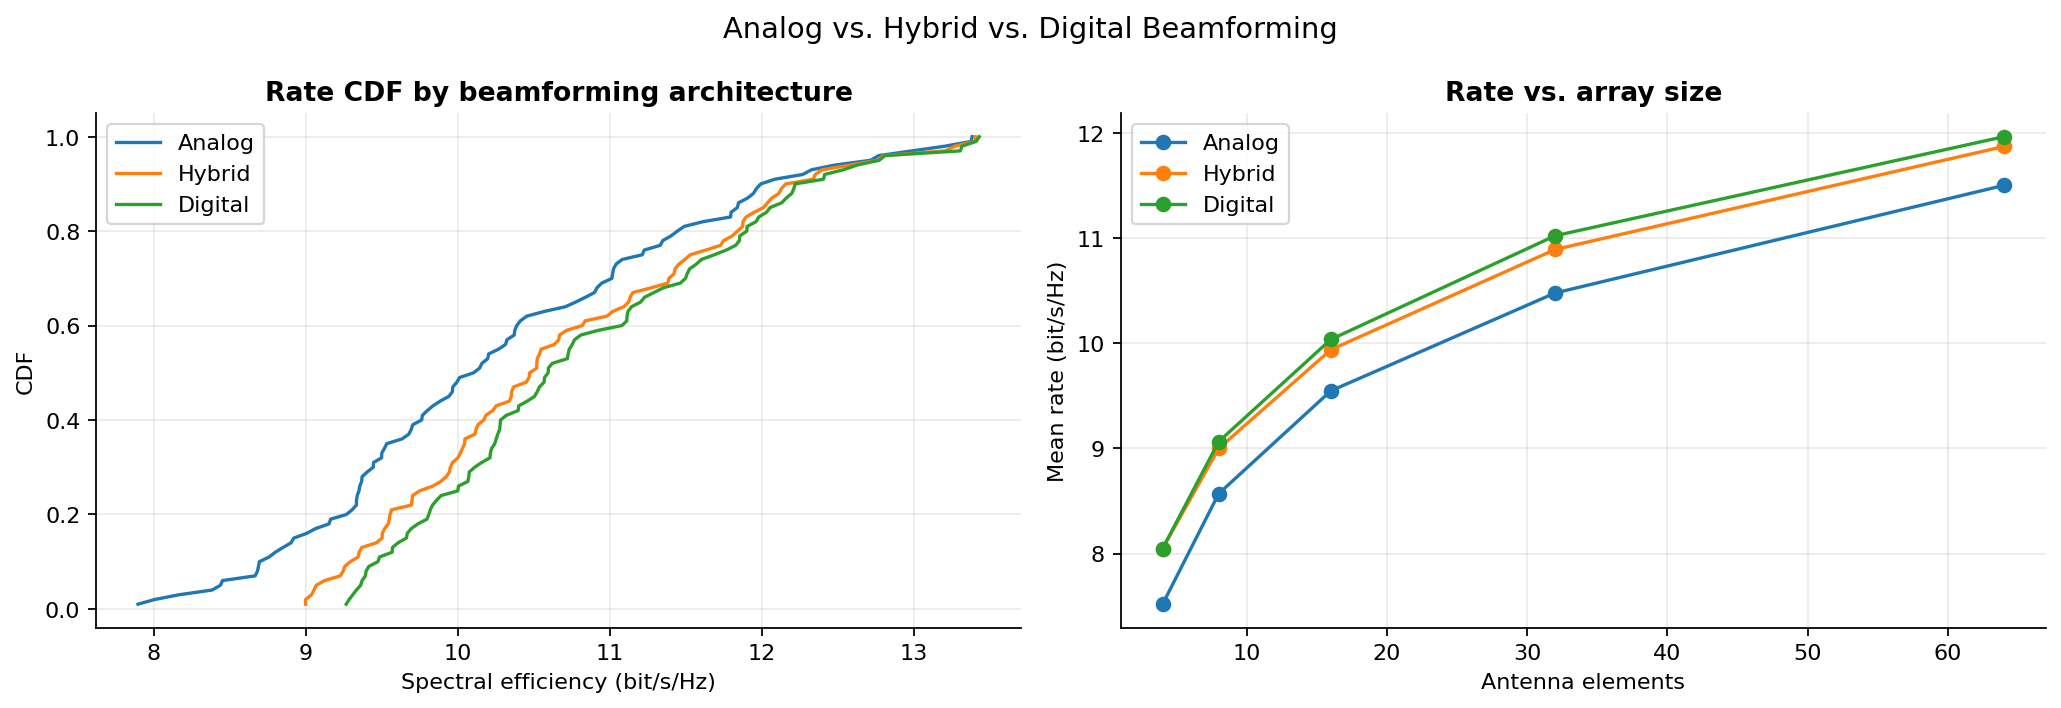
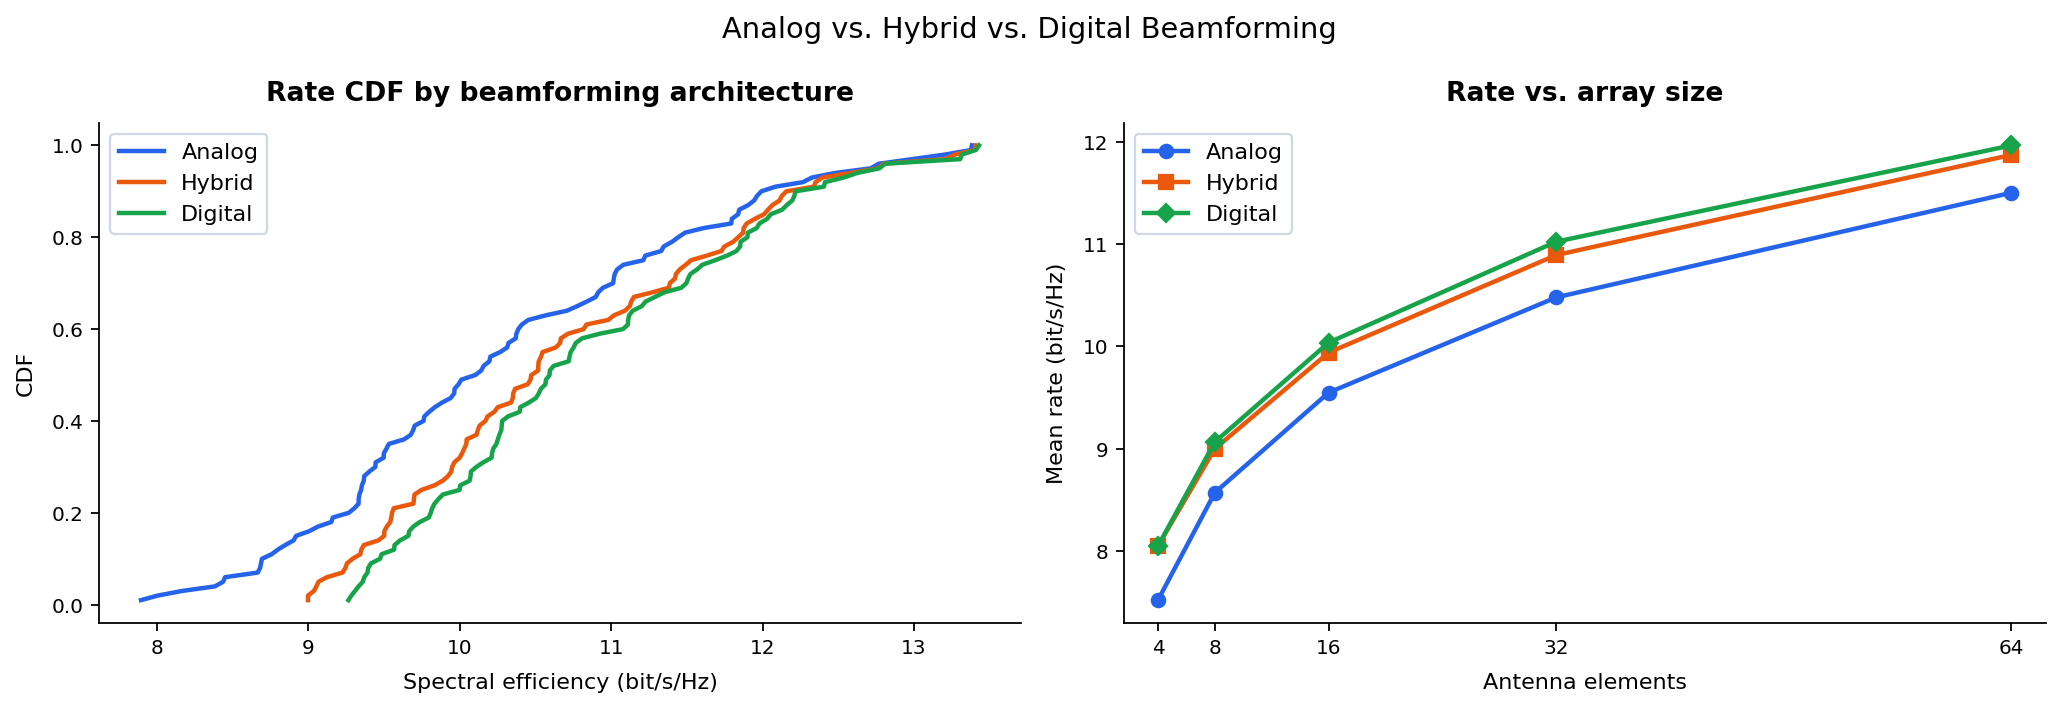
Polishing plots

diff --git a/plot_results.py b/plot_results.py
@@ -10,6 +10,7 @@ from pathlib import Path
 import matplotlib
 matplotlib.use("Agg")
 import matplotlib.pyplot as plt
+from matplotlib.ticker import LogLocator, NullLocator
 import numpy as np
 
 from metrics import cdf
@@ -28,7 +29,11 @@ plt.rcParams.update({
     "axes.spines.top": False,
     "axes.spines.right": False,
     "axes.titleweight": "semibold",
+    "axes.titlepad": 10,
+    "axes.labelpad": 7,
     "figure.facecolor": "white",
+    "legend.framealpha": 0.92,
+    "legend.edgecolor": "#CBD5E1",
 })
 
 
@@ -43,8 +48,34 @@ def _finish(fig_or_none, output: Path) -> None:
 
 
 def _style_axis(ax) -> None:
-    ax.grid(alpha=0.24, linewidth=0.8)
+    """Keep common axis layering without drawing a background grid."""
     ax.set_axisbelow(True)
+
+
+def _style_line_axis(ax) -> None:
+    """Apply a consistent readable treatment to line-based result charts."""
+    _style_axis(ax)
+    ax.tick_params(axis="both", which="major", labelsize=9)
+
+
+def _numeric_x_axis(ax, values: np.ndarray, padding_step: float) -> np.ndarray:
+    """Keep physical x positions and label only the simulated values."""
+    values = np.asarray(values, dtype=float)
+    span = float(values.max() - values.min())
+    padding = max(0.04 * span, 0.5 * padding_step)
+    x_min, x_max = values.min() - padding, values.max() + padding
+
+    ax.set_xlim(x_min, x_max)
+    ax.set_xticks(values, [f"{value:g}" for value in values])
+    ax.xaxis.set_minor_locator(NullLocator())
+    return values
+
+
+def _combined_legend(ax, extra_ax, **kwargs) -> None:
+    """Create a single legend for a paired-axis plot."""
+    lines, labels = ax.get_legend_handles_labels()
+    extra_lines, extra_labels = extra_ax.get_legend_handles_labels()
+    ax.legend(lines + extra_lines, labels + extra_labels, **kwargs)
 
 
 # -----------------------------------------------------------------------
@@ -59,12 +90,12 @@ def plot_beam_patterns(data: dict, output: Path) -> None:
     for idx, N in enumerate(sizes):
         ax = axes[idx]
         for beam_db in data["patterns"][N]:
-            ax.plot(angles, beam_db, linewidth=0.8)
+            ax.plot(angles, beam_db, linewidth=1.15, alpha=0.9)
         ax.set_ylim(-35, 1)
         ax.set_title(f"ULA  N = {N}")
         ax.set_xlabel("Angle (°)")
         ax.set_ylabel("Normalized gain (dB)")
-        _style_axis(ax)
+        _style_line_axis(ax)
     fig.suptitle("DFT-codebook beam patterns vs. array size", fontsize=13)
     _finish(fig, output)
 
@@ -88,7 +119,8 @@ def plot_snr_vs_angle(data: dict, output: Path) -> None:
         ax.set_xlabel("User angle (°)")
         ax.set_ylabel("Distance (m)")
         ax.set_title(label)
-        plt.colorbar(im, ax=ax)
+        colorbar = plt.colorbar(im, ax=ax, pad=0.025)
+        colorbar.ax.tick_params(labelsize=8)
     fig.suptitle("SNR and rate vs. user angle and distance", fontsize=13)
     _finish(fig, output)
 
@@ -116,9 +148,14 @@ def plot_ofdm_ber(data: dict, output: Path) -> None:
     ax.set_xlabel("Pre-beamforming SNR (dB)")
     ax.set_ylabel("Bit error rate")
     ax.set_title("CP-OFDM over multipath channel with LS pilot estimation")
+    ax.set_xlim(float(np.min(data["snr_db"])) - 0.8, float(np.max(snr_16)) + 0.8)
+    ax.set_xticks(np.arange(0, int(np.max(snr_16)) + 1, 5))
     ax.set_ylim(bottom=floor / 1.8, top=0.6)
-    ax.grid(alpha=0.24, which="both")
-    ax.legend(frameon=True, fontsize=9)
+    ax.yaxis.set_major_locator(LogLocator(base=10.0, numticks=6))
+    ax.yaxis.set_minor_locator(NullLocator())
+    ax.xaxis.set_minor_locator(NullLocator())
+    ax.set_axisbelow(True)
+    ax.legend(frameon=True, fontsize=9, loc="upper right")
     ax.text(0.01, 0.02, "Values at 10⁻⁵ indicate zero observed errors.",
             transform=ax.transAxes, fontsize=8, color=COLORS["slate"])
     _finish(fig, output)
@@ -131,25 +168,26 @@ def plot_ofdm_ber(data: dict, output: Path) -> None:
 def plot_rate_vs_antennas(data: dict, output: Path) -> None:
     fig, ax1 = plt.subplots(figsize=(8, 5))
     ax2 = ax1.twinx()
+    antennas = np.asarray(data["antennas"])
     # Three rate curves
     if "raw_rate" in data:
-        ax1.plot(data["antennas"], data["raw_rate"], "D-", color=COLORS["green"],
+        ax1.plot(antennas, data["raw_rate"], "D-", color=COLORS["green"],
                  lw=2, label="Raw rate (no training overhead)")
-    ax1.plot(data["antennas"], data["rate"], "o-", color=COLORS["blue"], lw=2,
+    ax1.plot(antennas, data["rate"], "o-", color=COLORS["blue"], lw=2,
              label="Effective rate (exhaustive sweep)")
     if "topk_rate" in data:
-        ax1.plot(data["antennas"], data["topk_rate"], "s-", color=COLORS["purple"], lw=2,
+        ax1.plot(antennas, data["topk_rate"], "s-", color=COLORS["purple"], lw=2,
                  label="Effective rate (location top-K)")
-    ax2.plot(data["antennas"], data["peak_snr_db"], "^--", color=COLORS["orange"],
+    ax2.plot(antennas, data["peak_snr_db"], "^--", color=COLORS["orange"],
              alpha=0.85, lw=1.8, label="Peak SNR")
     ax1.set_xlabel("Number of antenna elements")
     ax1.set_ylabel("Mean rate (bit/s/Hz)")
-    ax2.set_ylabel("Mean peak SNR (dB)", color="tab:orange")
+    ax2.set_ylabel("Mean peak SNR (dB)")
     ax1.set_title("Array Gain vs. Training Overhead")
-    _style_axis(ax1)
-    lines1, labels1 = ax1.get_legend_handles_labels()
-    lines2, labels2 = ax2.get_legend_handles_labels()
-    ax1.legend(lines1 + lines2, labels1 + labels2, fontsize=9)
+    _style_line_axis(ax1)
+    _numeric_x_axis(ax1, antennas, padding_step=4)
+    ax2.tick_params(axis="y", colors="black", labelsize=9)
+    _combined_legend(ax1, ax2, fontsize=9, loc="upper left")
     _finish(fig, output)
 
 
@@ -158,20 +196,25 @@ def plot_rate_vs_antennas(data: dict, output: Path) -> None:
 # -----------------------------------------------------------------------
 
 def plot_codebook_size(data: dict, output: Path) -> None:
-    fig, ax1 = plt.subplots(figsize=(7.5, 4.5))
+    fig, ax1 = plt.subplots(figsize=(7.8, 4.9))
     ax2 = ax1.twinx()
-    ax1.plot(data["codebook_size"], data["rate"], "o-", color=COLORS["blue"],
+    sizes = np.asarray(data["codebook_size"])
+    ax1.plot(sizes, data["rate"], "o-", color=COLORS["blue"],
              lw=2.1, label="Effective rate")
-    ax2.plot(data["codebook_size"], data["peak_snr_db"], "s--",
+    ax2.plot(sizes, data["peak_snr_db"], "s--",
              color=COLORS["orange"], lw=2.0, label="Peak SNR")
     ax1.set_xlabel("Codebook beams swept")
     ax1.set_ylabel("Effective spectral efficiency (bit/s/Hz)")
     ax2.set_ylabel("Peak post-BF SNR (dB)")
     ax1.set_title("Beam quality vs. training overhead")
-    _style_axis(ax1)
-    lines1, labels1 = ax1.get_legend_handles_labels()
-    lines2, labels2 = ax2.get_legend_handles_labels()
-    ax1.legend(lines1 + lines2, labels1 + labels2)
+    _style_line_axis(ax1)
+    _numeric_x_axis(ax1, sizes, padding_step=8)
+    ax2.tick_params(axis="y", colors="black", labelsize=9)
+    _combined_legend(
+        ax1, ax2,
+        loc="upper center", bbox_to_anchor=(0.5, -0.18), ncol=2,
+        frameon=False, fontsize=9,
+    )
     _finish(fig, output)
 
 
@@ -181,18 +224,20 @@ def plot_codebook_size(data: dict, output: Path) -> None:
 
 def plot_overhead_vs_speed(data: dict, output: Path) -> None:
     fig, ax = plt.subplots(figsize=(8.4, 4.9))
+    speeds = np.asarray(data["speeds_kmh"])
     for key, label, marker, color in [
         ("exhaustive_rate", "Exhaustive", "o", COLORS["blue"]),
         ("hierarchical_rate", "Hierarchical", "s", COLORS["orange"]),
         ("location_topk_rate", "Location top-K", "^", COLORS["green"]),
         ("ml_topk_rate", "Fusion MLP top-K", "D", COLORS["purple"]),
     ]:
-        ax.plot(data["speeds_kmh"], data[key], marker=marker, lw=2.2, ms=6,
+        ax.plot(speeds, data[key], marker=marker, lw=2.2, ms=6,
                 color=color, label=label)
     ax.set_xlabel("User speed (km/h)")
     ax.set_ylabel("Mean effective rate (bit/s/Hz)")
     ax.set_title("Doppler-limited beam-training overhead under mobility")
-    _style_axis(ax)
+    _style_line_axis(ax)
+    _numeric_x_axis(ax, speeds, padding_step=10)
     ax.legend(ncol=2, fontsize=8.5, frameon=True)
     _finish(fig, output)
 
@@ -250,30 +295,33 @@ def plot_bf_comparison(data: dict, output: Path) -> None:
     fig, axes = plt.subplots(1, 2, figsize=(13, 4.5))
 
     # CDF
-    for key, label in [
-        ("analog_rates", "Analog"),
-        ("hybrid_rates", "Hybrid"),
-        ("digital_rates", "Digital"),
+    for key, label, color in [
+        ("analog_rates", "Analog", COLORS["blue"]),
+        ("hybrid_rates", "Hybrid", COLORS["orange"]),
+        ("digital_rates", "Digital", COLORS["green"]),
     ]:
         vals, prob = cdf(data[key])
-        axes[0].plot(vals, prob, label=label)
+        axes[0].plot(vals, prob, lw=2.0, color=color, label=label)
     axes[0].set_xlabel("Spectral efficiency (bit/s/Hz)")
     axes[0].set_ylabel("CDF")
     axes[0].set_title("Rate CDF by beamforming architecture")
-    _style_axis(axes[0])
+    _style_line_axis(axes[0])
     axes[0].legend()
 
     # vs antenna count
-    for key, label in [
-        ("analog_vs_ant", "Analog"),
-        ("hybrid_vs_ant", "Hybrid"),
-        ("digital_vs_ant", "Digital"),
+    antennas = np.asarray(data["antennas"])
+    for key, label, color, marker in [
+        ("analog_vs_ant", "Analog", COLORS["blue"], "o"),
+        ("hybrid_vs_ant", "Hybrid", COLORS["orange"], "s"),
+        ("digital_vs_ant", "Digital", COLORS["green"], "D"),
     ]:
-        axes[1].plot(data["antennas"], data[key], "o-", label=label)
+        axes[1].plot(antennas, data[key], marker=marker, lw=2.0,
+                     color=color, label=label)
     axes[1].set_xlabel("Antenna elements")
     axes[1].set_ylabel("Mean rate (bit/s/Hz)")
     axes[1].set_title("Rate vs. array size")
-    _style_axis(axes[1])
+    _style_line_axis(axes[1])
+    _numeric_x_axis(axes[1], antennas, padding_step=4)
     axes[1].legend()
 
     fig.suptitle("Analog vs. Hybrid vs. Digital Beamforming", fontsize=13)
@@ -286,16 +334,18 @@ def plot_bf_comparison(data: dict, output: Path) -> None:
 
 def plot_multiuser(data: dict, output: Path) -> None:
     fig, axes = plt.subplots(1, 3, figsize=(14, 4))
+    users = np.asarray(data["users"])
     specs = [
         ("sum_rate", "Sum rate (bit/s/Hz)"),
         ("per_user_rate", "Per-user rate (bit/s/Hz)"),
         ("fairness", "Jain fairness index"),
     ]
     for ax, (key, ylabel) in zip(axes, specs):
-        ax.plot(data["users"], data[key], "o-")
+        ax.plot(users, data[key], "o-", lw=2.1, ms=6, color=COLORS["blue"])
         ax.set_xlabel("Number of users")
         ax.set_ylabel(ylabel)
-        _style_axis(ax)
+        _style_line_axis(ax)
+        _numeric_x_axis(ax, users, padding_step=2)
     fig.suptitle("Multi-user ZF beamforming", fontsize=13)
     _finish(fig, output)
 
@@ -306,11 +356,11 @@ def plot_multiuser(data: dict, output: Path) -> None:
 
 def plot_handover(data: dict, output: Path) -> None:
     fig, axes = plt.subplots(1, 3, figsize=(14, 4))
-    speeds = data["speeds_kmh"]
+    speeds = np.asarray(data["speeds_kmh"])
 
     # Helper: plot line with optional 95% CI shading
     def _plot_ci(ax, key, marker, color, ylabel, title):
-        ax.plot(speeds, data[key], f"{marker}-", color=color)
+        ax.plot(speeds, data[key], f"{marker}-", color=color, lw=2.1, ms=6)
         ci_lo = f"{key}_ci_low"
         ci_hi = f"{key}_ci_high"
         if ci_lo in data and ci_hi in data:
@@ -325,7 +375,8 @@ def plot_handover(data: dict, output: Path) -> None:
         if "prob" in key or "rate" in key:
             upper_bound = max(float(np.max(upper)), float(np.max(data[key])))
             ax.set_ylim(0.0, min(1.0, max(0.02, 1.18 * upper_bound)))
-        _style_axis(ax)
+        _style_line_axis(ax)
+        _numeric_x_axis(ax, speeds, padding_step=10)
 
     _plot_ci(axes[0], "outage_prob", "o", "tab:red",
              "Outage probability", "Outage vs. speed")
@@ -354,7 +405,7 @@ def plot_optimization(data: dict, output: Path) -> None:
     ax.set_xlabel("Iteration / generation")
     ax.set_ylabel("Proportional-fair utility")
     ax.set_title("Power-allocation convergence against grid-search reference")
-    _style_axis(ax)
+    _style_line_axis(ax)
     ax.legend()
     _finish(fig, output)
 
